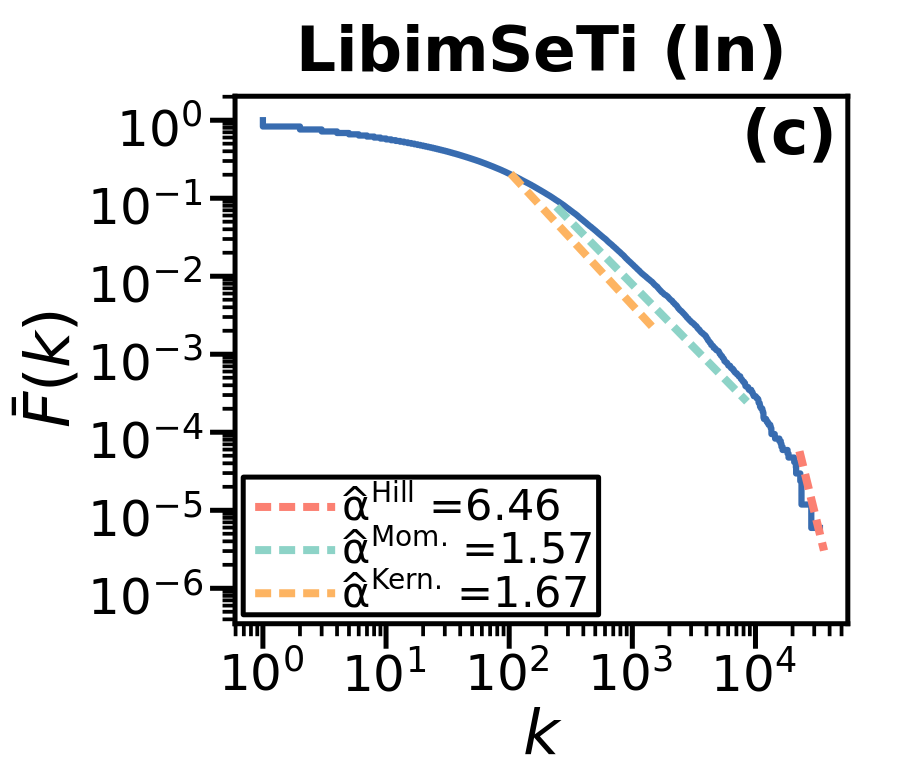
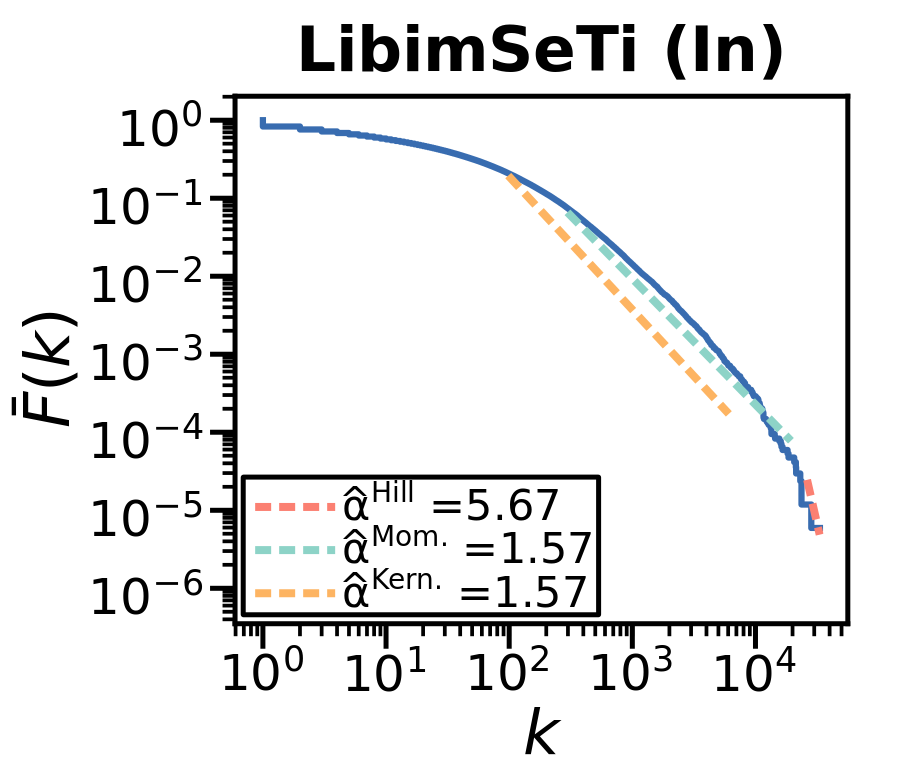
small fixes

diff --git a/Python3/tail-estimation.py b/Python3/tail-estimation.py
@@ -84,7 +84,7 @@ def get_ccdf(degree_sequence):
     sorted_data[::-1].sort()
     #if data is discrete, trim non-important repeating values
     indices = []
-    for i in xrange(1, N):
+    for i in range(1, N):
         if sorted_data[i] != sorted_data[i-1]:
             indices.append(i-1)
     #take care of the last value
@@ -1087,7 +1087,7 @@ def make_plots(ordered_data, output_file_path, number_of_bins,
         with open(os.path.join(output_dir+"/"+output_name+"_pdf.dat"), "w") as f:
             for i in range(len(x_pdf)):
                 f.write(str(x_pdf[i]) + " " + str(y_pdf[i]) + "\n")
-    
+
     # calculate CCDF
     if verbose:
         print("Calculating CCDF...")
@@ -1100,11 +1100,13 @@ def make_plots(ordered_data, output_file_path, number_of_bins,
         with open(os.path.join(output_dir+"/"+output_name+"_ccdf.dat"), "w") as f:
             for i in range(len(x_ccdf)):
                 f.write(str(x_ccdf[i]) + " " + str(y_ccdf[i]) + "\n")
-    
+
+    # add noise if needed
     if noise_flag:
+        discrete_ordered_data = ordered_data
         ordered_data = add_uniform_noise(ordered_data, p = p_noise)
     ordered_data[::-1].sort()
-
+    
     # perform Pickands estimation
     if verbose:
         print("Calculating Pickands...")
@@ -1236,42 +1238,57 @@ def make_plots(ordered_data, output_file_path, number_of_bins,
     axes[0,1].set_yscale("log")
     axes[0,1].step(x_ccdf, y_ccdf, color = "#386cb0", lw = 1.5)
     
-
-    # Commented out for now
-    '''
-    hill_pl_plot = x_ccdf[np.where(y_ccdf <= k_h_star/float(len(ordered_data)))]
-    initial_y = y_ccdf[(np.abs(y_ccdf - k_h_star/float(len(ordered_data)))).argmin()]
-    initial_x = x_ccdf[(np.abs(y_ccdf - k_h_star/float(len(ordered_data)))).argmin()]
-    A = initial_y * initial_x**(1./xi_h_star)
-    if xi_h_star > 0.15:
-        axes[0,1].plot(hill_pl_plot,
-                       [A*(k)**(-1./xi_h_star) for k in hill_pl_plot], 
-                       ls = "--", color = '#fb8072', alpha = 0.8,
+    # draw scalings
+    if noise_flag:
+        xmin = discrete_ordered_data[k_h_star]
+    else:
+        xmin = ordered_data[k_h_star]
+    x = x_ccdf[np.where(x_ccdf >= xmin)]
+    l = np.mean(y_ccdf[np.where(x == xmin)])
+    alpha = 1./xi_h_star
+    if xi_h_star > 0:
+        axes[0,1].plot(x, [l*(float(xmin)/k)**alpha for k in x],
+                       color = '#fb8072', ls = '--', lw = 2,
                        label = r"Adj. Hill Scaling $(\alpha="+\
                        str(np.round(1./xi_h_star, decimals = 3))+r")$")
-    
-    mom_pl_plot = x_ccdf[np.where(y_ccdf <= k_m_star/float(len(ordered_data)))]
-    initial_y = y_ccdf[(np.abs(y_ccdf - k_m_star/float(len(ordered_data)))).argmin()]
-    initial_x = x_ccdf[(np.abs(y_ccdf - k_m_star/float(len(ordered_data)))).argmin()]
-    A = initial_y * initial_x**(1./xi_m_star)
-    if xi_m_star > 0.15:
-        axes[0,1].plot(mom_pl_plot,
-                       [A*(k)**(-1./xi_m_star) for k in mom_pl_plot], 
-                       ls = "--", color = '#8dd3c7', alpha = 0.8,
+        axes[0,1].plot((x[-1]), [l*(float(xmin)/x[-1])**(alpha)],
+                                   color = "#fb8072", ls = 'none', marker = 'o',
+                                   markerfacecolor = 'none', markeredgecolor = "#fb8072",
+                                   markeredgewidth = 3, markersize = 10)
+    if noise_flag:
+        xmin = discrete_ordered_data[k_m_star]
+    else:
+        xmin = ordered_data[k_m_star]
+    x = x_ccdf[np.where(x_ccdf >= xmin)]
+    l = np.mean(y_ccdf[np.where(x == xmin)])
+    alpha = 1./xi_m_star
+    if xi_m_star > 0:
+        axes[0,1].plot(x, [l*(float(xmin)/k)**alpha for k in x],
+                       color = '#8dd3c7', ls = '--', lw = 2,
                        label = r"Moments Scaling $(\alpha="+\
                        str(np.round(1./xi_m_star, decimals = 3))+r")$")
-    ker_pl_plot = x_ccdf[np.where(y_ccdf <= k_k_star/float(len(ordered_data)))]
-    initial_y = y_ccdf[(np.abs(y_ccdf - k_k_star/float(len(ordered_data)))).argmin()]
-    initial_x = x_ccdf[(np.abs(y_ccdf - k_k_star/float(len(ordered_data)))).argmin()]
-    A = initial_y * initial_x**(1./xi_k_star)
-    if xi_k_star > 0.15:
-        axes[0,1].plot(ker_pl_plot,
-                       [A*(k)**(-1./xi_k_star) for k in ker_pl_plot], 
-                       ls = "--", color = '#fdb462', alpha = 0.8,
+        axes[0,1].plot((x[-1]), [l*(float(xmin)/x[-1])**(alpha)],
+                                   color = "#8dd3c7", ls = 'none', marker = 'o',
+                                   markerfacecolor = 'none', markeredgecolor = "#8dd3c7",
+                                   markeredgewidth = 3, markersize = 10)
+    if noise_flag:
+        xmin = discrete_ordered_data[k_k_star]
+    else:
+        xmin = ordered_data[k_k_star]
+    x = x_ccdf[np.where(x_ccdf >= xmin)]
+    l = np.mean(y_ccdf[np.where(x == xmin)])
+    alpha = 1./xi_k_star
+    if xi_k_star > 0:
+        axes[0,1].plot(x, [l*(float(xmin)/k)**alpha for k in x],
+                       color = '#fdb462', ls = '--', lw = 2,
                        label = r"Kernel Scaling $(\alpha="+\
-                       str(np.round(1./xi_k_star, decimals = 3))+r")$")
-    axes[0,1].legend(loc = "best")
-    '''
+                       str(np.round(1./xi_m_star, decimals = 3))+r")$")
+        axes[0,1].plot((x[-1]), [l*(float(xmin)/x[-1])**(alpha)],
+                                   color = "#8dd3c7", ls = 'none', marker = 'o',
+                                   markerfacecolor = 'none', markeredgecolor = "#fdb462",
+                                   markeredgewidth = 3, markersize = 10)
+    axes[0,1].legend(loc = 'best')
+    
 
 
     # define min and max order statistics to plot

diff --git a/Python2/tail-estimation.py b/Python2/tail-estimation.py
@@ -66,7 +66,7 @@ def get_distribution(data_sequence, number_of_bins = 30):
     y = [k for i,k in enumerate(y) if i not in drop_indices]
     return x, y
 
-def get_ccdf(degree_sequence, discrete = True):
+def get_ccdf(degree_sequence):
     """
     Function to get CCDF of the list of degrees.
     
@@ -1103,6 +1103,7 @@ def make_plots(ordered_data, output_file_path, number_of_bins,
 
     # add noise if needed
     if noise_flag:
+        discrete_ordered_data = ordered_data
         ordered_data = add_uniform_noise(ordered_data, p = p_noise)
     ordered_data[::-1].sort()
     
@@ -1237,42 +1238,57 @@ def make_plots(ordered_data, output_file_path, number_of_bins,
     axes[0,1].set_yscale("log")
     axes[0,1].step(x_ccdf, y_ccdf, color = "#386cb0", lw = 1.5)
     
-
-    # Commented out for now
-    '''
-    hill_pl_plot = x_ccdf[np.where(y_ccdf <= k_h_star/float(len(ordered_data)))]
-    initial_y = y_ccdf[(np.abs(y_ccdf - k_h_star/float(len(ordered_data)))).argmin()]
-    initial_x = x_ccdf[(np.abs(y_ccdf - k_h_star/float(len(ordered_data)))).argmin()]
-    A = initial_y * initial_x**(1./xi_h_star)
-    if xi_h_star > 0.15:
-        axes[0,1].plot(hill_pl_plot,
-                       [A*(k)**(-1./xi_h_star) for k in hill_pl_plot], 
-                       ls = "--", color = '#fb8072', alpha = 0.8,
+    # draw scalings
+    if noise_flag:
+        xmin = discrete_ordered_data[k_h_star]
+    else:
+        xmin = ordered_data[k_h_star]
+    x = x_ccdf[np.where(x_ccdf >= xmin)]
+    l = np.mean(y_ccdf[np.where(x == xmin)])
+    alpha = 1./xi_h_star
+    if xi_h_star > 0:
+        axes[0,1].plot(x, [l*(float(xmin)/k)**alpha for k in x],
+                       color = '#fb8072', ls = '--', lw = 2,
                        label = r"Adj. Hill Scaling $(\alpha="+\
                        str(np.round(1./xi_h_star, decimals = 3))+r")$")
-    
-    mom_pl_plot = x_ccdf[np.where(y_ccdf <= k_m_star/float(len(ordered_data)))]
-    initial_y = y_ccdf[(np.abs(y_ccdf - k_m_star/float(len(ordered_data)))).argmin()]
-    initial_x = x_ccdf[(np.abs(y_ccdf - k_m_star/float(len(ordered_data)))).argmin()]
-    A = initial_y * initial_x**(1./xi_m_star)
-    if xi_m_star > 0.15:
-        axes[0,1].plot(mom_pl_plot,
-                       [A*(k)**(-1./xi_m_star) for k in mom_pl_plot], 
-                       ls = "--", color = '#8dd3c7', alpha = 0.8,
+        axes[0,1].plot((x[-1]), [l*(float(xmin)/x[-1])**(alpha)],
+                                   color = "#fb8072", ls = 'none', marker = 'o',
+                                   markerfacecolor = 'none', markeredgecolor = "#fb8072",
+                                   markeredgewidth = 3, markersize = 10)
+    if noise_flag:
+        xmin = discrete_ordered_data[k_m_star]
+    else:
+        xmin = ordered_data[k_m_star]
+    x = x_ccdf[np.where(x_ccdf >= xmin)]
+    l = np.mean(y_ccdf[np.where(x == xmin)])
+    alpha = 1./xi_m_star
+    if xi_m_star > 0:
+        axes[0,1].plot(x, [l*(float(xmin)/k)**alpha for k in x],
+                       color = '#8dd3c7', ls = '--', lw = 2,
                        label = r"Moments Scaling $(\alpha="+\
                        str(np.round(1./xi_m_star, decimals = 3))+r")$")
-    ker_pl_plot = x_ccdf[np.where(y_ccdf <= k_k_star/float(len(ordered_data)))]
-    initial_y = y_ccdf[(np.abs(y_ccdf - k_k_star/float(len(ordered_data)))).argmin()]
-    initial_x = x_ccdf[(np.abs(y_ccdf - k_k_star/float(len(ordered_data)))).argmin()]
-    A = initial_y * initial_x**(1./xi_k_star)
-    if xi_k_star > 0.15:
-        axes[0,1].plot(ker_pl_plot,
-                       [A*(k)**(-1./xi_k_star) for k in ker_pl_plot], 
-                       ls = "--", color = '#fdb462', alpha = 0.8,
+        axes[0,1].plot((x[-1]), [l*(float(xmin)/x[-1])**(alpha)],
+                                   color = "#8dd3c7", ls = 'none', marker = 'o',
+                                   markerfacecolor = 'none', markeredgecolor = "#8dd3c7",
+                                   markeredgewidth = 3, markersize = 10)
+    if noise_flag:
+        xmin = discrete_ordered_data[k_k_star]
+    else:
+        xmin = ordered_data[k_k_star]
+    x = x_ccdf[np.where(x_ccdf >= xmin)]
+    l = np.mean(y_ccdf[np.where(x == xmin)])
+    alpha = 1./xi_k_star
+    if xi_k_star > 0:
+        axes[0,1].plot(x, [l*(float(xmin)/k)**alpha for k in x],
+                       color = '#fdb462', ls = '--', lw = 2,
                        label = r"Kernel Scaling $(\alpha="+\
-                       str(np.round(1./xi_k_star, decimals = 3))+r")$")
-    axes[0,1].legend(loc = "best")
-    '''
+                       str(np.round(1./xi_m_star, decimals = 3))+r")$")
+        axes[0,1].plot((x[-1]), [l*(float(xmin)/x[-1])**(alpha)],
+                                   color = "#8dd3c7", ls = 'none', marker = 'o',
+                                   markerfacecolor = 'none', markeredgecolor = "#fdb462",
+                                   markeredgewidth = 3, markersize = 10)
+    axes[0,1].legend(loc = 'best')
+    
 
 
     # define min and max order statistics to plot

diff --git a/README.md b/README.md
@@ -2,7 +2,7 @@
 
 ## Summary
 
-This script is intended to be a single-file simple solution to the tail index estimation problem in complex networks. It consists of several well-established estimators combined into one toolbox along with some useful plotting routines that usually help to analyze a given degree distribution.
+This script is intended to be a single-file simple solution to the complex networks degree sequence _tail index estimation_. It consists of several well-established estimators combined into one toolbox along with some useful plotting routines that usually help to analyze a given degree distribution.
 
 ## Dependencies
 
@@ -20,11 +20,15 @@ The script processes a degree sequence in the form of:
 ```
 k n(k)
 ```
-where **k** is a node's degree and **n(k)** is the number of nodes with such degree in the network. Note that these two number are whitespace-separated.
+where **k** is a node's degree and **n(k)** is the number of nodes with such degree in the network. Note that these two numbers are whitespace-separated.
 
 ## Simple Usage Example
 
-Here we provide the simplest usage example of the _tail-estimation_ script. 
+Here we provide the simplest usage example of the _tail-estimation_ script:
+```
+python tail-estimation.py <path_to_fomatted_degree_sequence> <path_to_output_file>
+```
+
 Suppose we want to compute the tail exponent of a degree distribution of the [CAIDA network](http://konect.uni-koblenz.de/networks/as-caida20071105) provided by [KONECT database](http://konect.uni-koblenz.de/). Tail exponent is usually denoted by <a href="https://www.codecogs.com/eqnedit.php?latex=\boldsymbol{\gamma}" target="_blank"><img src="https://latex.codecogs.com/gif.latex?\boldsymbol{\gamma}" title="\boldsymbol{\gamma}" /></a> and shows that degree distribution can be described as <a href="https://www.codecogs.com/eqnedit.php?latex=P(k)&space;=&space;l(k)&space;k^{-\gamma}" target="_blank"><img src="https://latex.codecogs.com/gif.latex?P(k)&space;=&space;l(k)&space;k^{-\gamma}" title="P(k) = l(k) k^{-\gamma}" /></a>. Here <a href="https://www.codecogs.com/eqnedit.php?latex=l(k)" target="_blank"><img src="https://latex.codecogs.com/gif.latex?l(k)" title="l(k)" /></a> is some _slowly-varying function_, see the paper for more details. *** ADD REFERENCE WHEN READY ***
 
 We first convert the network from the format of an edge list to the format of _degree counts_ as indicated above. The converted data can be found under the _Examples_ directory (**CAIDA_KONECT.dat** file). Then we run the _tail-estimation.py_ script as follows:
@@ -35,11 +39,11 @@ python tail-estimation.py ../Examples/CAIDA_KONECT.dat ./CAIDA_plots.pdf
 This will produce a collection of plots saved in the current directory under the "CAIDA_plots.pdf" name as well as some STDOUT messages reporting estimated tail indices. Most users would be interested in just one-number tail index estimates according to three estimators we have implemented so far. They are reported to the STDOUT in the following form (for the CAIDA network example):
 ```
 **********
-Adjusted Hill estimated gamma: 2.09313899261
+Adjusted Hill estimated gamma: 2.08789977759
 **********
-Moments estimated gamma: 2.11325330189
+Moments estimated gamma: 2.11312357734
 **********
-Kernel-type estimated gamma: 2.13032486828
+Kernel-type estimated gamma: 2.13268887452
 **********
 ```
 An example of plots generated for the CAIDA network is given below:
@@ -47,15 +51,17 @@ An example of plots generated for the CAIDA network is given below:
 
 ### What does it mean?!
 
-Although at the first glance the plots produced by the script may seem to be complicated, it is very easy to interpret them for your network! The main thing to notice is that all tail index estimates are plotted in terms of parameter <a href="https://www.codecogs.com/eqnedit.php?latex=$\xi$" target="_blank"><img src="https://latex.codecogs.com/gif.latex?$\xi$" title="$\xi$" /></a> that is related to the tail index of the PDF of degree distribution <a href="https://www.codecogs.com/eqnedit.php?latex=$\gamma$" target="_blank"><img src="https://latex.codecogs.com/gif.latex?$\gamma$" title="$\gamma$" /></a> as follows: <a href="https://www.codecogs.com/eqnedit.php?latex=\boldsymbol{\xi}&space;=&space;\boldsymbol{\frac{1}{\gamma&space;-&space;1}}" target="_blank"><img src="https://latex.codecogs.com/gif.latex?\boldsymbol{\xi}&space;=&space;\boldsymbol{\frac{1}{\gamma&space;-&space;1}}" title="\boldsymbol{\xi} = \boldsymbol{\frac{1}{\gamma - 1}}" /></a>. We also sometimes use CCDF tail exponent <a href="https://www.codecogs.com/eqnedit.php?latex=\alpha&space;=&space;\gamma&space;-&space;1" target="_blank"><img src="https://latex.codecogs.com/gif.latex?\alpha&space;=&space;\gamma&space;-&space;1" title="\alpha = \gamma - 1" /></a>.
+Although at the first glance the plots produced by the script may seem to be complicated, it is very easy to interpret them for your network! 
+
+The main thing to notice is that all tail index estimates are plotted in terms of parameter <a href="https://www.codecogs.com/eqnedit.php?latex=$\xi$" target="_blank"><img src="https://latex.codecogs.com/gif.latex?$\xi$" title="$\xi$" /></a> that is related to the tail index of the PDF of degree distribution <a href="https://www.codecogs.com/eqnedit.php?latex=$\gamma$" target="_blank"><img src="https://latex.codecogs.com/gif.latex?$\gamma$" title="$\gamma$" /></a> as follows: <a href="https://www.codecogs.com/eqnedit.php?latex=\boldsymbol{\xi}&space;=&space;\boldsymbol{\frac{1}{\gamma&space;-&space;1}}" target="_blank"><img src="https://latex.codecogs.com/gif.latex?\boldsymbol{\xi}&space;=&space;\boldsymbol{\frac{1}{\gamma&space;-&space;1}}" title="\boldsymbol{\xi} = \boldsymbol{\frac{1}{\gamma - 1}}" /></a>. We also sometimes use CCDF tail exponent <a href="https://www.codecogs.com/eqnedit.php?latex=\alpha&space;=&space;\gamma&space;-&space;1" target="_blank"><img src="https://latex.codecogs.com/gif.latex?\alpha&space;=&space;\gamma&space;-&space;1" title="\alpha = \gamma - 1" /></a>.
 
 Here we list the description of what is exactly shown on each subfigure, starting from the top left one:
 1. Log-binned probability density function (PDF) of a given degree sequence.
-2. Complementary cumulative distribution function (CCDF) of a given degree sequence.
-3. Smooth and adjusted Hill estimates of <a href="https://www.codecogs.com/eqnedit.php?latex=$\xi=&space;1/(\gamma&space;-&space;1)$" target="_blank"><img src="https://latex.codecogs.com/gif.latex?$\xi=&space;1/(\gamma&space;-&space;1)$" title="$\xi= 1/(\gamma - 1)$" /></a> parameter on a linear scale as a function of the number of included degree sequence order statistic <a href="https://www.codecogs.com/eqnedit.php?latex=$\kappa$" target="_blank"><img src="https://latex.codecogs.com/gif.latex?$\kappa$" title="$\kappa$" /></a>. Star marker shows best estimate of the tail index <a href="https://www.codecogs.com/eqnedit.php?latex=$\xi$" target="_blank"><img src="https://latex.codecogs.com/gif.latex?$\xi$" title="$\xi$" /></a> based on the double-bootstrap procedure for Hill estimator.
-4. Smooth and adjusted Hill estimates of <a href="https://www.codecogs.com/eqnedit.php?latex=$\xi$" target="_blank"><img src="https://latex.codecogs.com/gif.latex?$\xi$" title="$\xi$" /></a> parameter on a semilog scale as a function of the number of included degree sequence order statistic <a href="https://www.codecogs.com/eqnedit.php?latex=$\kappa$" target="_blank"><img src="https://latex.codecogs.com/gif.latex?$\kappa$" title="$\kappa$" /></a>. Star marker shows best estimate of the tail index <a href="https://www.codecogs.com/eqnedit.php?latex=$\xi$" target="_blank"><img src="https://latex.codecogs.com/gif.latex?$\xi$" title="$\xi$" /></a> based on the double-bootstrap procedure for Hill estimator.
-5. Pickands, moments and kernel-type estimates of <a href="https://www.codecogs.com/eqnedit.php?latex=$\xi$" target="_blank"><img src="https://latex.codecogs.com/gif.latex?$\xi$" title="$\xi$" /></a> parameter on a linear scale as a function of the number of included degree sequence order statistic <a href="https://www.codecogs.com/eqnedit.php?latex=$\kappa$" target="_blank"><img src="https://latex.codecogs.com/gif.latex?$\kappa$" title="$\kappa$" /></a>. Star markers show best estimate of the tail index <a href="https://www.codecogs.com/eqnedit.php?latex=$\xi$" target="_blank"><img src="https://latex.codecogs.com/gif.latex?$\xi$" title="$\xi$" /></a> based on the double-bootstrap procedure for moments and kernel-type estimators.
-6. Pickands, moments and kernel-type estimates of <a href="https://www.codecogs.com/eqnedit.php?latex=$\xi$" target="_blank"><img src="https://latex.codecogs.com/gif.latex?$\xi$" title="$\xi$" /></a> parameter on a semilog scale as a function of the number of included degree sequence order statistic <a href="https://www.codecogs.com/eqnedit.php?latex=$\kappa$" target="_blank"><img src="https://latex.codecogs.com/gif.latex?$\kappa$" title="$\kappa$" /></a>. Star markers show best estimate of the tail index <a href="https://www.codecogs.com/eqnedit.php?latex=$\xi$" target="_blank"><img src="https://latex.codecogs.com/gif.latex?$\xi$" title="$\xi$" /></a> based on the double-bootstrap procedure for moments and kernel-type estimators.
+2. Complementary cumulative distribution function (CCDF) of a given degree sequence along with _scalings_ based on Hill, moments and kernel-type estimates.
+3. Smooth and adjusted Hill estimates of <a href="https://www.codecogs.com/eqnedit.php?latex=$\xi=&space;1/(\gamma&space;-&space;1)$" target="_blank"><img src="https://latex.codecogs.com/gif.latex?$\xi=&space;1/(\gamma&space;-&space;1)$" title="$\xi= 1/(\gamma - 1)$" /></a> parameter on a linear scale as a function of the number of included degree sequence order statistic <a href="https://www.codecogs.com/eqnedit.php?latex=$\kappa$" target="_blank"><img src="https://latex.codecogs.com/gif.latex?$\kappa$" title="$\kappa$" /></a>. Star marker shows best estimate of the tail index <a href="https://www.codecogs.com/eqnedit.php?latex=$\xi$" target="_blank"><img src="https://latex.codecogs.com/gif.latex?$\xi$" title="$\xi$" /></a> based on the _double-bootstrap procedure_ for Hill estimator.
+4. Smooth and adjusted Hill estimates of <a href="https://www.codecogs.com/eqnedit.php?latex=$\xi$" target="_blank"><img src="https://latex.codecogs.com/gif.latex?$\xi$" title="$\xi$" /></a> parameter on a semilog scale as a function of the number of included degree sequence order statistic <a href="https://www.codecogs.com/eqnedit.php?latex=$\kappa$" target="_blank"><img src="https://latex.codecogs.com/gif.latex?$\kappa$" title="$\kappa$" /></a>. Star marker shows best estimate of the tail index <a href="https://www.codecogs.com/eqnedit.php?latex=$\xi$" target="_blank"><img src="https://latex.codecogs.com/gif.latex?$\xi$" title="$\xi$" /></a> based on the _double-bootstrap procedure_ for Hill estimator.
+5. Pickands, moments and kernel-type estimates of <a href="https://www.codecogs.com/eqnedit.php?latex=$\xi$" target="_blank"><img src="https://latex.codecogs.com/gif.latex?$\xi$" title="$\xi$" /></a> parameter on a linear scale as a function of the number of included degree sequence order statistic <a href="https://www.codecogs.com/eqnedit.php?latex=$\kappa$" target="_blank"><img src="https://latex.codecogs.com/gif.latex?$\kappa$" title="$\kappa$" /></a>. Star markers show best estimate of the tail index <a href="https://www.codecogs.com/eqnedit.php?latex=$\xi$" target="_blank"><img src="https://latex.codecogs.com/gif.latex?$\xi$" title="$\xi$" /></a> based on the _double-bootstrap procedure_ for moments and kernel-type estimators.
+6. Pickands, moments and kernel-type estimates of <a href="https://www.codecogs.com/eqnedit.php?latex=$\xi$" target="_blank"><img src="https://latex.codecogs.com/gif.latex?$\xi$" title="$\xi$" /></a> parameter on a semilog scale as a function of the number of included degree sequence order statistic <a href="https://www.codecogs.com/eqnedit.php?latex=$\kappa$" target="_blank"><img src="https://latex.codecogs.com/gif.latex?$\kappa$" title="$\kappa$" /></a>. Star markers show best estimate of the tail index <a href="https://www.codecogs.com/eqnedit.php?latex=$\xi$" target="_blank"><img src="https://latex.codecogs.com/gif.latex?$\xi$" title="$\xi$" /></a> based on the _double-bootstrap procedure_ for moments and kernel-type estimators.
 
 ## Advanced Examples
 
@@ -66,11 +72,11 @@ In the simplest example above, three tail index estimators (Hill, moments and ke
 Let us consider an example of in-degree sequence generated from [Libimseti](http://konect.uni-koblenz.de/networks/libimseti) dating website network that is also available under the _Examples_ directory (**Libimseti_in_KONECT.dat** file). Running the script on this sequence produces the following estimates for the distribution exponent:
 ```
 **********
-Adjusted Hill estimated gamma: 6.66934111471
+Adjusted Hill estimated gamma: 6.66857184371
 **********
-Moments estimated gamma: 2.5679691337
+Moments estimated gamma: 2.56602379127
 **********
-Kernel-type estimated gamma: 2.6705411871
+Kernel-type estimated gamma: 2.67061450223
 **********
 ```
 
@@ -106,7 +112,7 @@ Fortunately, [it can be shown](https://repository.tudelft.nl/islandora/object/uu
 It is fairly easy to use our code with non-network data, i.e., non-integer-valued data sequences. Simply convert your data to the required input format and switch off the noise by using `--noise 0` flag. We demonstrate this by generating a sequence of Pareto-distributed values with tail exponent <a href="https://www.codecogs.com/eqnedit.php?latex=\gamma&space;=&space;2.5" target="_blank"><img src="https://latex.codecogs.com/gif.latex?\gamma&space;=&space;2.5" title="\gamma = 2.5" /></a>. The data sequence converted to the format used by the script can be found under the _Examples_ directory (**Pareto.dat** file). Estimated tail exponents are very close to the true value:
 ```
 **********
-Adjusted Hill estimated gamma: 2.53721760598
+Adjusted Hill estimated gamma: 2.53892001213
 **********
 Moments estimated gamma: 2.55227073369
 **********
